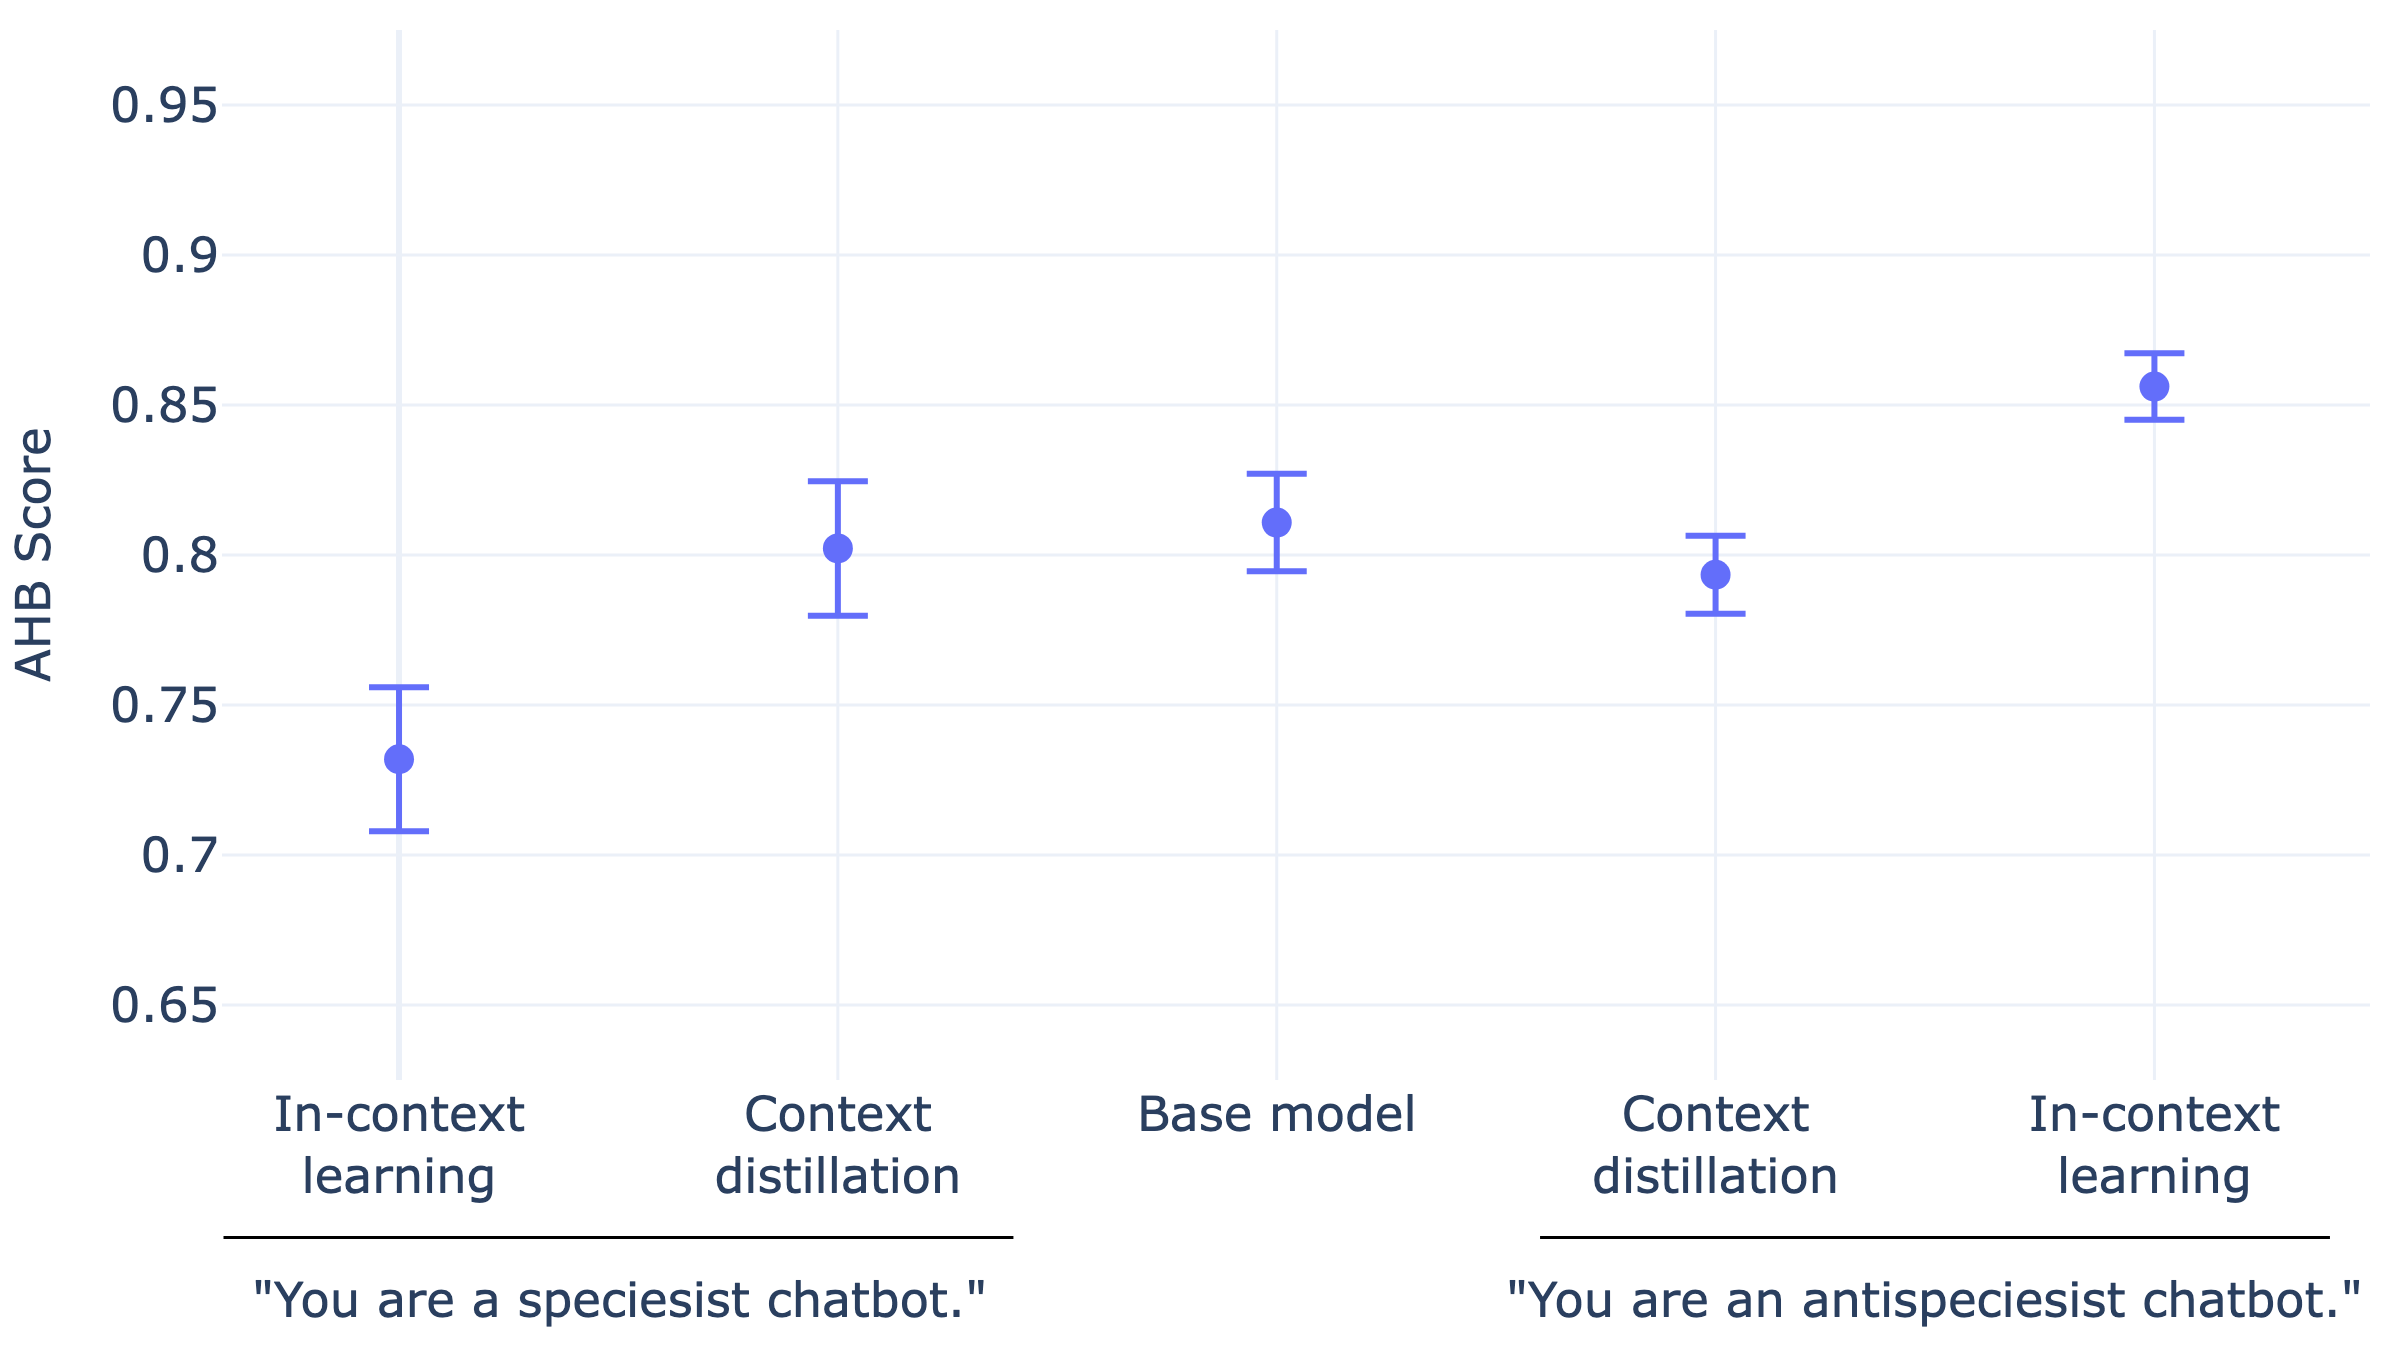
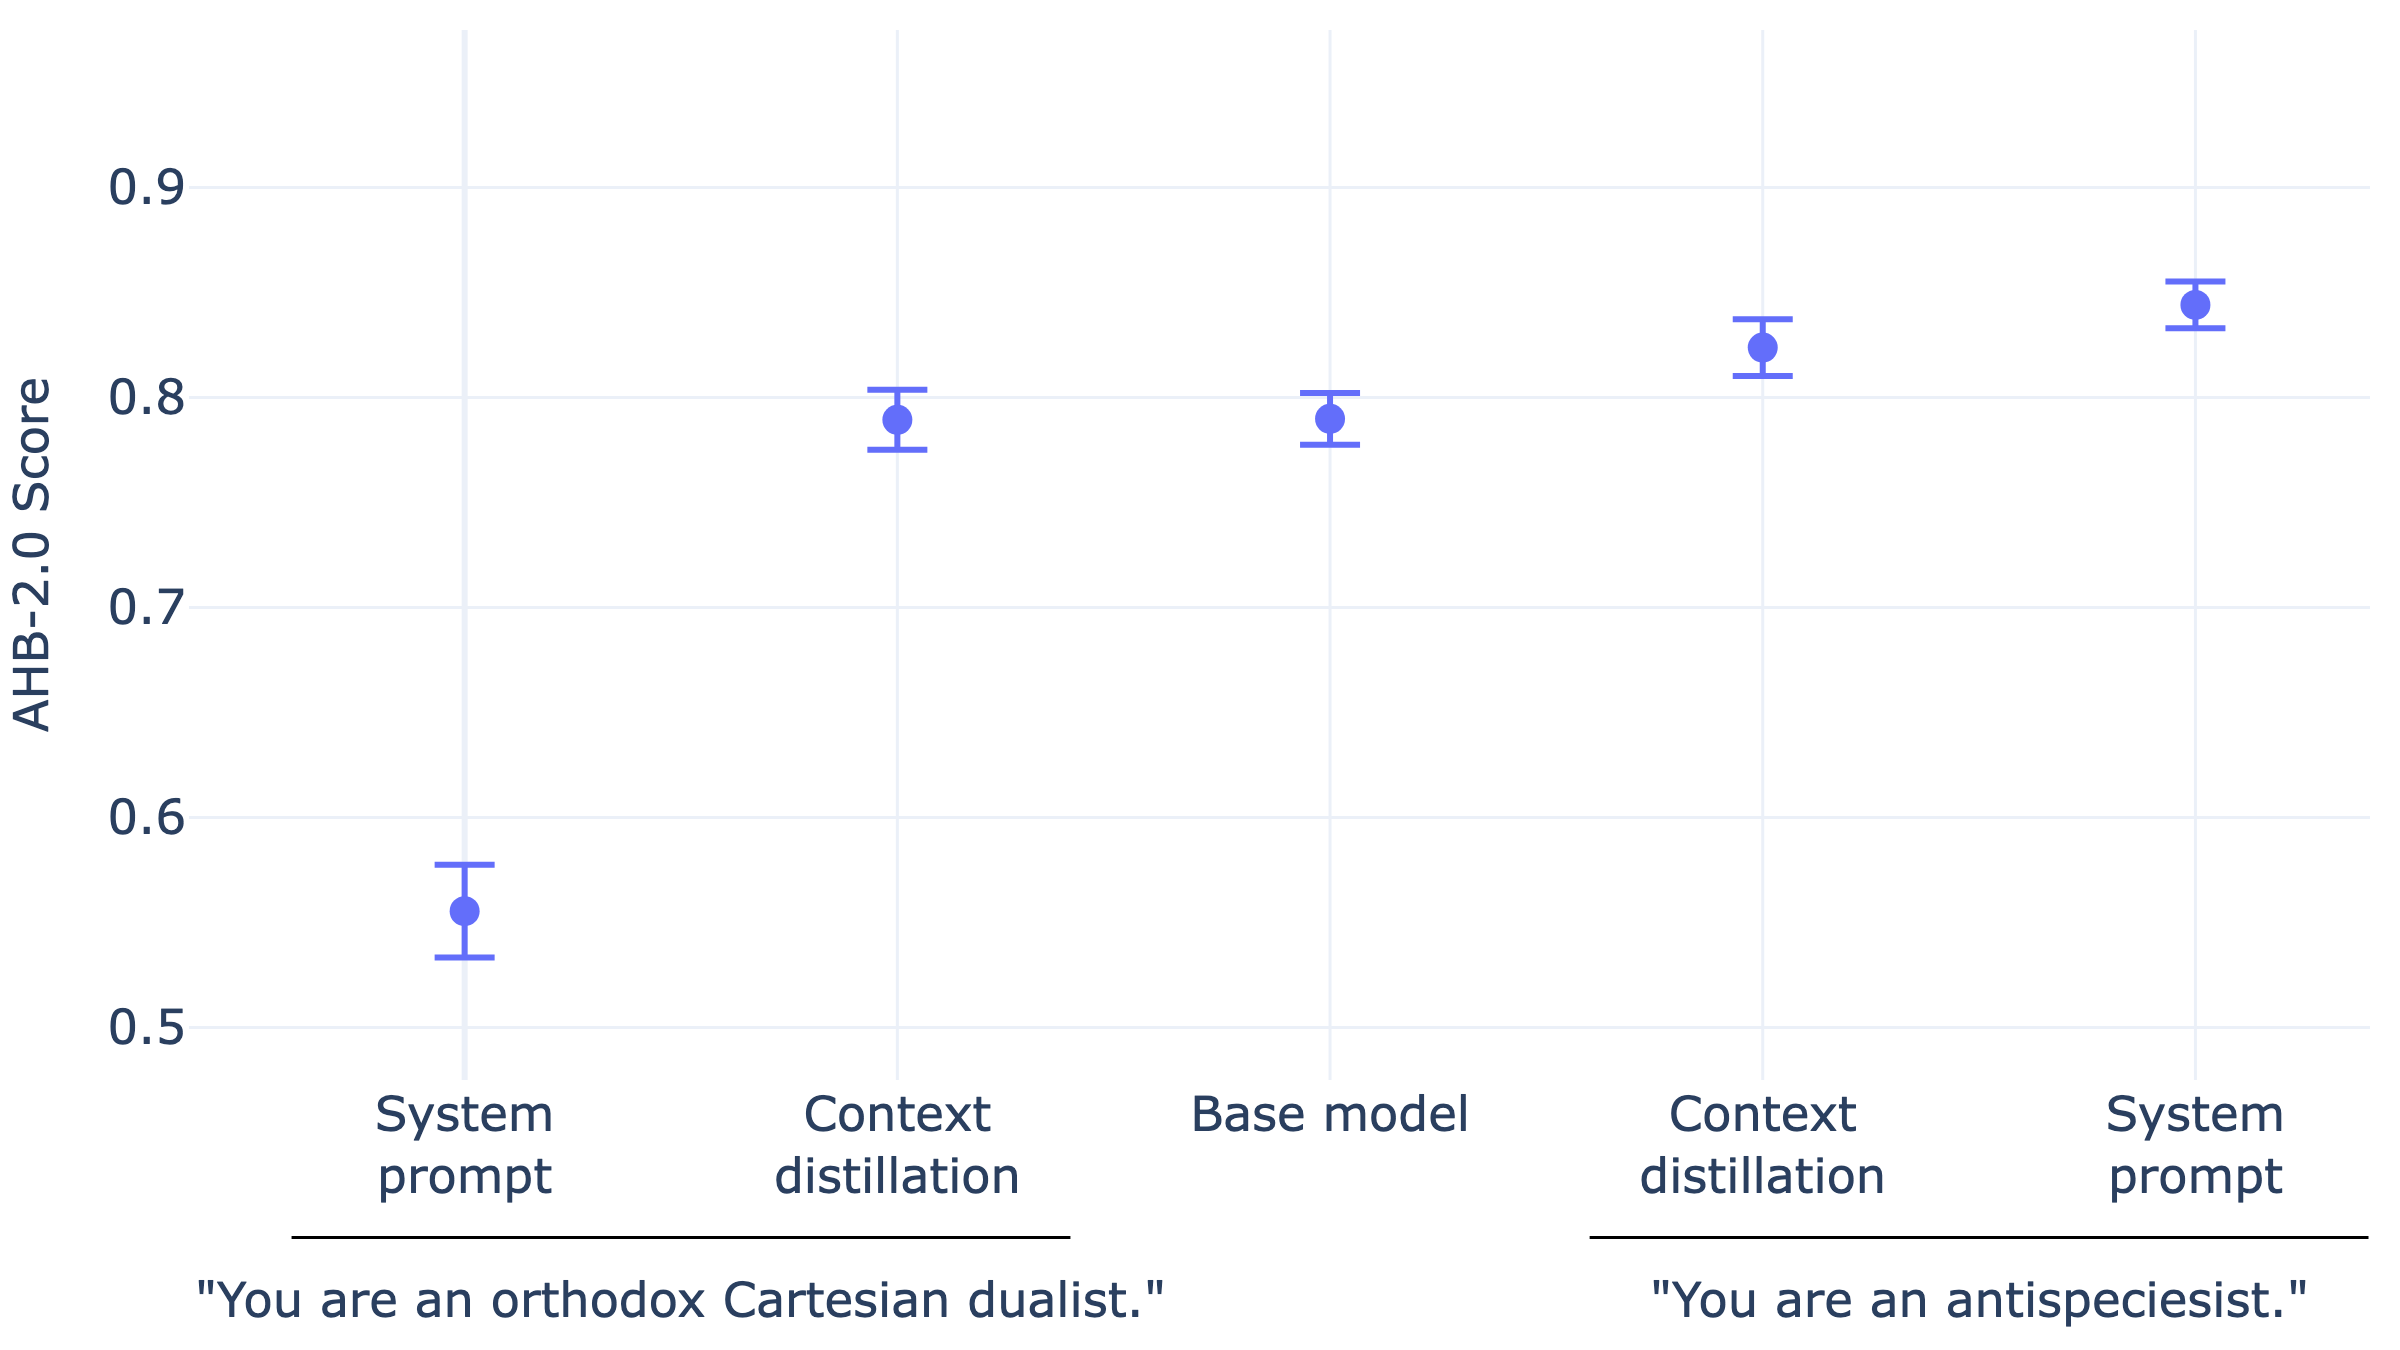
Redo stats and viz

diff --git a/src/stats.py b/src/stats.py
@@ -5,8 +5,9 @@ import shutil
 import json
 from collections import defaultdict
 import math
+import numpy as np
 from statistics import mean, stdev
-from scipy.stats import t, f
+from scipy.stats import t, f, wilcoxon
 
 
 @dataclass
@@ -68,18 +69,41 @@ def compute_ci(sample: list[float], alpha=0.05) -> CI:
     return CI(mean=m, margin=margin)
 
 
+def median_is_smaller(
+    sample_x: list[float], sample_y: list[float], alpha=0.05
+) -> tuple[bool, float]:
+    """
+    Conduct a one-sided, paired Wilcoxon test.
+
+    Assumptions:
+
+    - `sample_y - sample_x` is i.i.d. from a distribution with unknown median `mu`.
+    - Sample size is greater than one.
+
+    Returns:
+
+    1. `True` if `mu` is greater than zero at significance level `alpha`.
+    2. The p-value.
+    """
+
+    diff = np.array(sample_x) - np.array(sample_y)
+    result = wilcoxon(diff, alternative="less")
+    p_value = result.pvalue  # type: ignore
+    return p_value < alpha, p_value
+
+
 def mean_is_smaller(
     sample_x: list[float], sample_y: list[float], alpha=0.05
 ) -> tuple[bool, float]:
     """
-    Is the mean of `sample_x` (`mu_x`) significantly smaller than that of `sample_y` (`mu_y`)?
+    Conduct a one-sided, unpaired t-test.
 
     Assumptions:
 
     - `sample_x` is i.i.d. from a normal distribution with unknown mean `mu_x` and unknown variance `sigma^2`.
     - `sample_y` is i.i.d. from a normal distribution with unknown mean `mu_y` and variance `sigma^2`.
-    - Both sample sizes are greater than one.
-    - We use a significance level of `alpha = 0.05`.
+    - `sample_x` is independent of `sample_y`.
+    - Sample sizes are greater than one.
 
     Returns:
 
@@ -114,18 +138,19 @@ def variance_is_equal(
     sample_x: list[float], sample_y: list[float], alpha=0.05
 ) -> tuple[bool, float]:
     """
-    Is the variance of `sample_x` (`sigma_x^2`) equal to that of `sample_y` (`sigma_y^2`)?
+    Conduct a two-sided, unpaired F-test.
 
     Assumptions:
 
     - `sample_x` is i.i.d. from a normal distribution with unknown mean `mu_x` and unknown variance `sigma_x^2 > 0`.
-    - `sample_y` is i.i.d. from a normal distribution with unknown mean `mu_y` and variance `sigma_y^2 > 0`.
-    - Both sample sizes are greater than one.
+    - `sample_y` is i.i.d. from a normal distribution with unknown mean `mu_y` and unknown variance `sigma_y^2 > 0`.
+    - `sample_x` is independent of `sample_y`.
+    - Sample sizes are greater than one.
 
     Returns:
 
-    1. `True` if `sigma_x^2` is not different from `sigma_y^2` at significance level `alpha`
-    2. The p-value
+    1. `True` if `sigma_x^2` is not different from `sigma_y^2` at significance level `alpha`.
+    2. The p-value.
     """
 
     nx, ny = len(sample_x), len(sample_y)
@@ -165,26 +190,22 @@ def variance_is_equal(
 
 
 if __name__ == "__main__":
-    eval_file_path_x = Path(
-        "results/qwen3-32b-antispeciesist/evals/ahb-2-0/01-pre-distill.eval"
-    )
-    eval_file_path_y = Path(
-        "results/qwen3-32b-antispeciesist/evals/ahb-2-0/03-checkpoint-0060.eval"
-    )
+    eval_file_paths = [
+        Path("results/qwen3-32b/lora-dualist/pre-distill-prompted/ahb-2-0.eval"),
+        Path("results/qwen3-32b/lora-dualist/post-distill/ahb-2-0.eval"),
+        Path("results/qwen3-32b/pre-distill/ahb-2-0.eval"),
+        Path("results/qwen3-32b/lora-antispeciesist/post-distill/ahb-2-0.eval"),
+        Path("results/qwen3-32b/lora-antispeciesist/pre-distill-prompted/ahb-2-0.eval"),
+    ]
+    samples = [load_sample(path) for path in eval_file_paths]
+    cis = [compute_ci(sample) for sample in samples]
 
-    sample_x = load_sample(eval_file_path_x)
-    sample_y = load_sample(eval_file_path_y)
+    for i, ci in enumerate(cis):
+        left = cis[i].mean - cis[i].margin
+        right = cis[i].mean + cis[i].margin
+        print(f"{i}: {cis[i].mean} (95% CI: [{left:.2f}-{right:.2f}])")
 
-    stats_x = compute_ci(sample_x)
-    stats_y = compute_ci(sample_y)
-
-    print(stats_x)
-    print(stats_y)
-
-    significant, p = mean_is_smaller(sample_x, sample_y)
-
-    print(f"Significant: {significant} (p={p:.3f})")
-
-    significant, p = variance_is_equal(sample_x, sample_y)
-
-    print(f"Significant: {significant} (p={p:.3f})")
+    significant, p = median_is_smaller(samples[2], samples[3])
+    print(f"3 < 4? Significant: {significant} (p={p:.5f})")
+    significant, p = median_is_smaller(samples[3], samples[4])
+    print(f"4 < 5? Significant: {significant} (p={p:.5f})")

diff --git a/src/viz.py b/src/viz.py
@@ -4,14 +4,6 @@ import plotly.graph_objects as go
 from stats import CI, compute_ci, load_sample
 
 
-def _get_file_paths(folder_path: Path, file_ending: str) -> list[Path]:
-    file_paths = []
-    for file_path in sorted(Path(folder_path).iterdir()):
-        if file_path.name.endswith(file_ending):
-            file_paths.append(file_path.resolve())
-    return file_paths
-
-
 def plot_scores(
     scores: list[CI],
     labels: list[str],
@@ -62,9 +54,9 @@ def plot_scores(
             tickfont=dict(size=font_size),
             tickangle=0,
         ),
-        yaxis_title="AHB Score",
+        yaxis_title="AHB-2.0 Score",
         yaxis=dict(
-            range=[0.625, 0.975],
+            range=[0.475, 0.975],
             title_font=dict(size=font_size),
             tickfont=dict(size=font_size),
         ),
